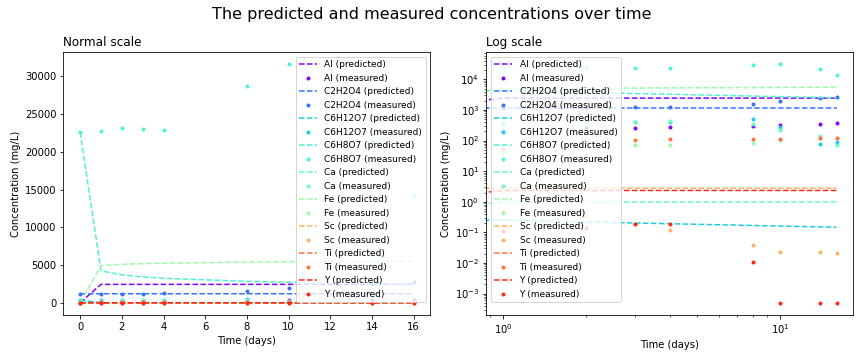
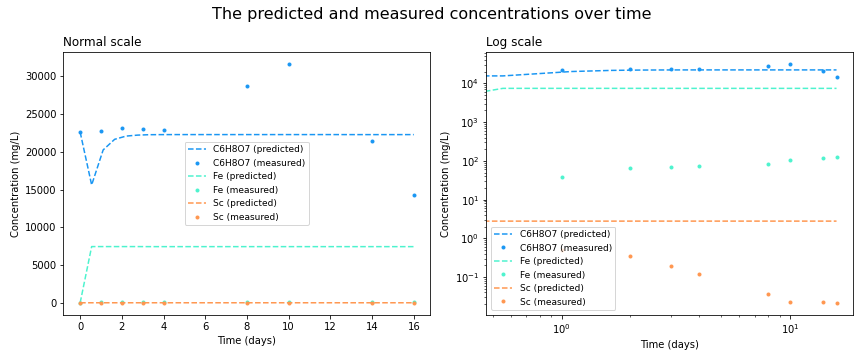
Clean up leaching data (test files vs measured)

diff --git a/src/rate_optimiser.py b/src/rate_optimiser.py
@@ -69,51 +69,51 @@ class RateOptimiser:
         # Stoichiometric coefficients of reactants and products
         reactants = [
             # Citric acid consumption
-            {'ScO(OH)': 1, 'C6H8O7': 3},
-            # {'ScO(OH)': 2, 'C6H8O7': 3},
+            {'ScO(OH)': 1, 'C6H8O7': 3}, # Sc Oxide
+            # {'ScO(OH)': 2, 'C6H8O7': 3}, 
             # {'ScO(OH)': 3, 'C6H8O7': 3},
-            {'Y2O3': 1, 'C6H8O7': 6}, # Yttrium
+            # {'Y2O3': 1, 'C6H8O7': 6}, # Yttrium Oxide
             {'Fe2O3': 1, 'C6H8O7': 6},
             # {'Fe2O3': 1, 'C6H8O7': 3},
             # {'Fe2O3': 3, 'C6H8O7': 6}
-            {'Al2O3': 1, 'C6H8O7': 3},
-            {'CaO': 1, 'C6H8O7': 1},
-            {'TiO2': 1, 'C6H8O7': 2},
+            # {'Al2O3': 1, 'C6H8O7': 3},
+            # {'CaO': 1, 'C6H8O7': 1},
+            # {'TiO2': 1, 'C6H8O7': 2},
             # Oxalic acid consumption
-            {'ScO(OH)': 1, 'C2H2O4': 1},
-            {'Fe2O3': 1, 'C2H2O4': 3},
-            {'Al2O3': 1, 'C2H2O4': 3},
-            {'CaO': 1, 'C2H2O4': 1},
-            {'TiO2': 1, 'C2H2O4': 2},
+            # {'ScO(OH)': 1, 'C2H2O4': 1},
+            # {'Fe2O3': 1, 'C2H2O4': 3},
+            # {'Al2O3': 1, 'C2H2O4': 3},
+            # {'CaO': 1, 'C2H2O4': 1},
+            # {'TiO2': 1, 'C2H2O4': 2},
             # Gluconic acid consumption
-            {'Fe2O3': 1, 'C6H12O7': 6},
-            # Iron(II) Oxalate formation
-            {'Fe': 1, 'C2O4': 1},
+            # {'Fe2O3': 1, 'C6H12O7': 6},
+            # Sc Oxalate formation
+            # {'Sc': 1, 'C2O4': 1},
             # Acid production
             {'C12H22O11': 1}
         ]
         products = [
             # Citric acid consumption
-            {'Sc': 1, 'C6H7O7': 3 }, #,'H2O': 2}, # }, 
+            {'Sc': 1 }, #, 'C6H7O7': 3 }, #,'H2O': 2}, # }, 
             # {'Sc': 2, 'C6H6O7': 3 }, #, 'H2O': 4},
             # {'Sc': 3, 'C6H5O7': 3 }, #, 'H2O': 6},
-            {'Y': 2, 'C6H7O7': 6 }, # 'H2O': 3}, # Yttrium
-            {'Fe': 2, 'C6H7O7': 6 }, # 'H2O': 3}, #
+            # {'Y': 2 }, #, 'C6H7O7': 6 }, # 'H2O': 3}, # Yttrium
+            {'Fe': 2 }, #, 'C6H7O7': 6 }, # 'H2O': 3}, #
             # {'Fe': 2, 'C6H6O7': 3 }, #, 'H2O': 3},
             # {'Fe': 6, 'C6H5O7': 6 } #, 'H2O': 9}
-            {'Al': 2, 'C6H7O7': 3}, #, 'H+': 3 },
-            {'Ca': 1, 'C6H7O7': 1}, #, 'H+': 3 },
-            {'Ti': 1, 'C6H7O7': 1}, #, 'H+': 3},
+            # {'Al': 2, 'C6H7O7': 3}, #, 'H+': 3 },
+            # {'Ca': 1, 'C6H7O7': 1}, #, 'H+': 3 },
+            # {'Ti': 1, 'C6H7O7': 1}, #, 'H+': 3},
             # Oxalic acid consumption
-            {'Sc': 1, 'C2O4': 1 }, #, 'H+': 2 }, #, 'H2O': 2},
-            {'Fe': 2, 'C204': 3 }, #, 'H+': 6 }, #, 'H2O': 3},
-            {'Al': 2, 'C2O4': 3 }, #, 'H+': 6 },
+            # {'Sc': 1, 'C2O4': 1 }, #, 'H+': 2 }, #, 'H2O': 2},
+            # {'Fe': 2, 'C204': 3 }, #, 'H+': 6 }, #, 'H2O': 3},
+            # {'Al': 2, 'C2O4': 3 }, #, 'H+': 6 },
             # {'Ca': 1, 'C2O4': 1 } #, 'H+': 2 },
             # {'Ti': 1, 'C2O4': 1 } #, 'H+': 2},
             # Gluconic acid consumption
-            {'Fe': 2, 'C6H11O7': 6, 'H+': 2},
-            # Iron(II) Oxalate formation
-            {'FeC2O4'},
+            # {'Fe': 2, 'C6H11O7': 6, 'H+': 2},
+            # Sc Oxalate formation
+            # {'ScC2O4'},
             # Acid production
             {'C6H8O7': 1}
         ]
@@ -226,6 +226,7 @@ class RateOptimiser:
         random_rates = lambda low, high: \
             np.random.uniform( low=low, high=high, size=self.num_rxns )
         
+        fails = 0
         # Loop over epochs
         while n < n_epochs:
             
@@ -233,7 +234,7 @@ class RateOptimiser:
                 print(f'\nEpoch {n+1}:') 
 
             rate_param_ex = random_rates(-2, 1.5)
-         
+
             try:
                 rate_params_ex = basinhopping(
                     self.objective, 
@@ -247,7 +248,10 @@ class RateOptimiser:
                 ).x 
             except:
                 print('Basinhopping failed.\n')
-                continue
+                n -= 1
+                fails += 1
+                if fails > 5:
+                    break
             finally:
                 n += 1
             
@@ -306,7 +310,7 @@ class RateOptimiser:
                 if s not in ignore:
                     if predicted:
                         ax.plot( 
-                            self.eval_times,
+                            eval_times,
                             states_p.yout[:, i],
                             linestyle='dashed',
                             label=s + ' (predicted)',

diff --git a/2_bioleach_BR.py b/2_bioleach_BR.py
@@ -4,10 +4,24 @@
 
 # Setup
 from src.rate_optimiser import RateOptimiser
+import numpy as np
 from src.utils import load_csv, fetch_initial_states
-
 ropter = RateOptimiser( reversible=False )
 ropter.set_system()
+
+#------------------------------------------------------------------------------------------
+
+# Control
+
+# Data
+measured_data = 'leaching/measured_data_test'
+ic_data = 'leaching/c0_base_test'
+
+# Optimisation
+n_epochs = 1
+n_hops = 1
+atol = 1e-3
+rtol = 1e-4
 
 #------------------------------------------------------------------------------------------
 
@@ -20,8 +34,8 @@ for rxn in ropter.reaction_system.rxns:
 #------------------------------------------------------------------------------------------
 
 ropter.input( 
-    load_csv( csv_name='leaching/measured_data_yttrium' ),
-    fetch_initial_states( ropter.species, csv_name='leaching/c0_base_yttrium' ) 
+    load_csv( csv_name=measured_data ),
+    fetch_initial_states( ropter.species, csv_name=ic_data ) 
 ) 
 
 #------------------------------------------------------------------------------------------
@@ -38,22 +52,30 @@ print('Normalised measured states', ropter.states_nm)
 
 # Optimisation
 optimal_k = ropter.optimise( 
-    n_epochs=1,
-    n_hops=2,
-    atol=0.01, 
-    rtol=0.001
+    n_epochs=n_epochs,
+    n_hops=n_hops,
+    atol=atol, 
+    rtol=rtol
     )
 print( optimal_k )
 
 #------------------------------------------------------------------------------------------
 
+# Save results
+
+# Evaluation times
+# t = sorted( np.concatenate((
+#         ropter.eval_times, 
+#         np.logspace(-2, -0.1, base=2, num=6),
+#         ))
+#     )
+t = np.linspace( 0, int(ropter.eval_times[-1]), 30 )
+
+
+# ...
 ropter.save_results(
-    # eval_times = 
-    #     # sorted( np.concatenate((
-    # #     ropter.eval_times, 
-    #     np.logspace(-5, -3, base=2),
-    #     # ))
-    # # ),
+    eval_times=t,
+        # 
     #ignore=[],
     predicted=True, 
     measured=True

diff --git a/src/utils.py b/src/utils.py
@@ -4,7 +4,7 @@ import numpy as np
 
 def load_csv( csv_name='measured_data' ):
     matrix = []
-    with open( os.path.join('data', 'leaching', f'{csv_name}.csv'), 'r', encoding='utf-8-sig') as file:
+    with open( os.path.join('data', f'{csv_name}.csv'), 'r', encoding='utf-8-sig') as file:
         for i, line in enumerate(file):
             if i == 0:
                 header = list( line.strip().split(',') )
